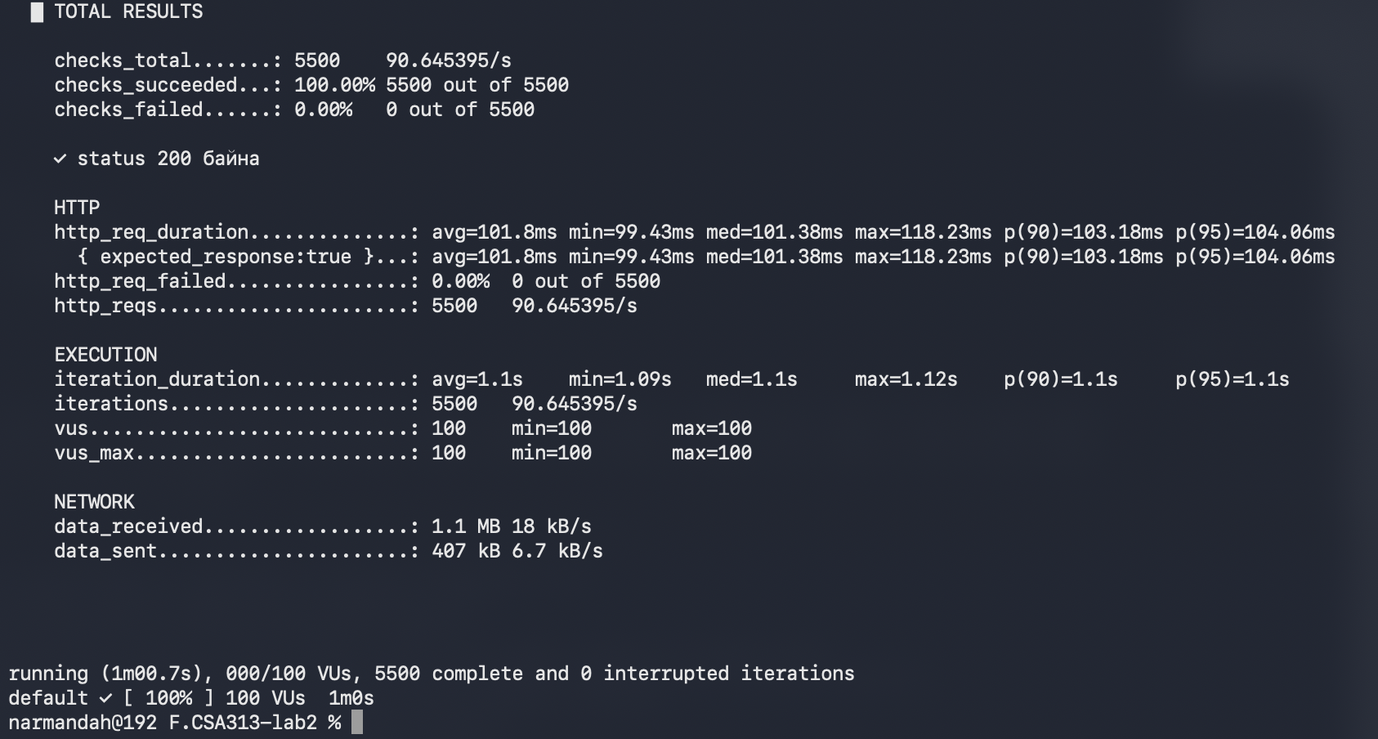
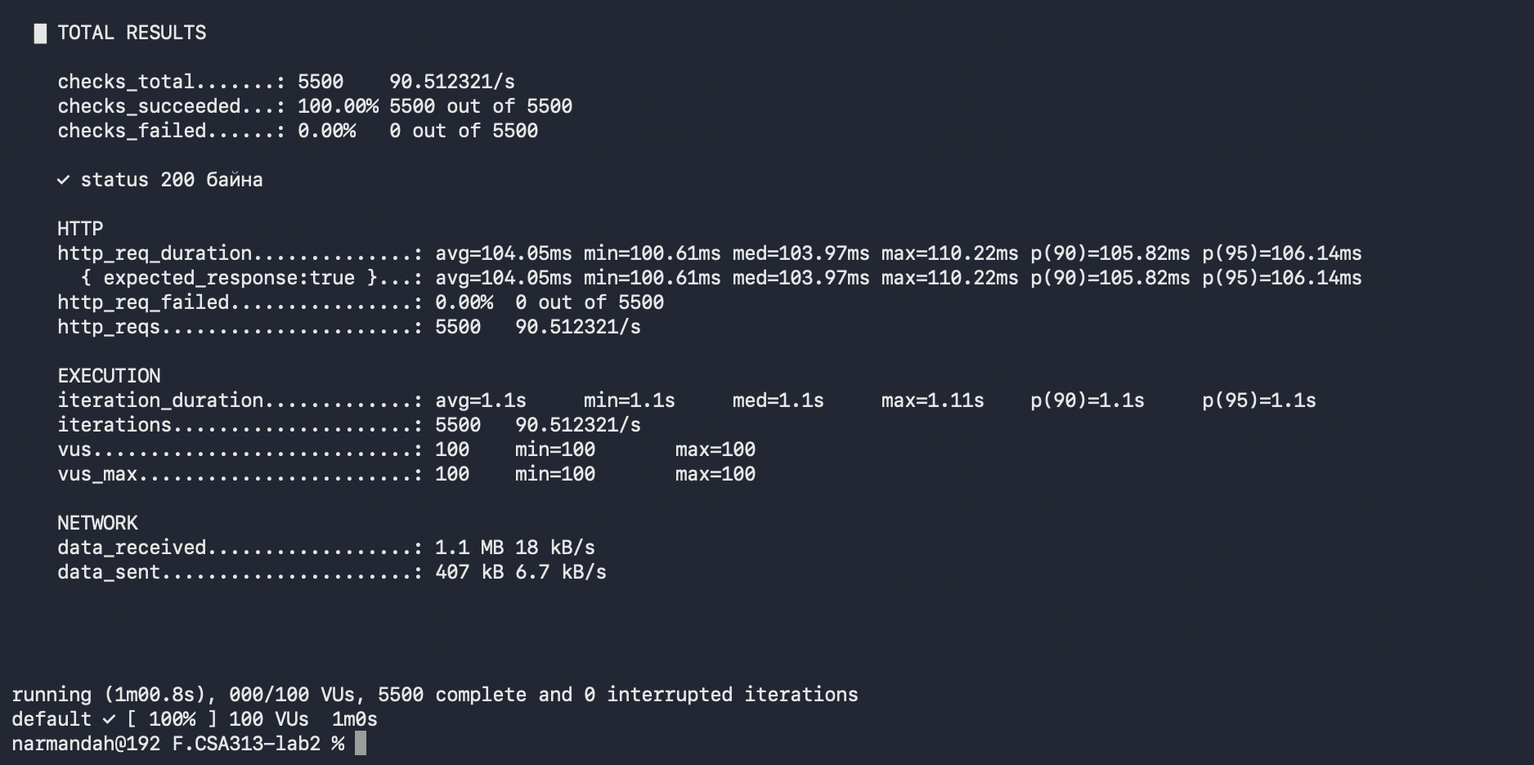
Алхам 4-5: MacBook дээр дахин хэмжсэн, README шинэчилсэн

Changed region(s): [[0.0, 0.0, 0.987, 0.4336], [0.0308, 0.4646, 0.9253, 0.7743], [0.0, 0.8982, 0.6168, 0.9912]]

diff --git a/README.md b/README.md
@@ -7,15 +7,16 @@ F.CSA313 — Программ хангамжийн чанарын баталга
 `k6 version` командын гаралт ([results/k6-version.txt](results/k6-version.txt)):
 
 ```
-k6 v1.2.3 (commit/e4a5a88f7c, go1.24.6, linux/amd64)
+k6 v2.2.0 (commit/devel, go1.26.5, darwin/arm64)
 ```
 
 | Зүйл | Утга |
 |---|---|
-| Үйлдлийн систем | Ubuntu 24.04.4 LTS (x86_64) |
-| CPU / RAM | 2 vCPU / 7 GB |
-| Бай (target) сервер | Өөрийн бичсэн локал Node.js сервер — [`server/server.js`](server/server.js), `http://localhost:3000` (Node v22) |
-| Load тест хэрэгсэл | Grafana k6 v1.2.3 (AGPL v3) |
+| Машин / ҮС | MacBook Air (Apple Silicon, arm64), macOS — `brew install k6` |
+| Бай (target) сервер | Өөрийн бичсэн локал Node.js сервер — [`server/server.js`](server/server.js), `http://localhost:3000` |
+| Load тест хэрэгсэл | Grafana k6 v2.2.0 (AGPL v3) |
+
+k6 болон сервер хоёулаа нэг машин дээр ажилласан.
 
 ### Ёс зүй — тестийн бай
 
@@ -25,7 +26,7 @@ k6 v1.2.3 (commit/e4a5a88f7c, go1.24.6, linux/amd64)
 
 | Endpoint | Тайлбар |
 |---|---|
-| `GET /` | Бүтээгдэхүүний жагсаалт бүхий JSON "хуудас" бэлтгэнэ — хуудас render хийхтэй төстэй **CPU ажил (~12 мс)**. Node.js нэг thread-тэй тул зэрэгцээ хүсэлт олшрох тусам хүсэлтүүд дараалалд зогсоно. |
+| `GET /` | Бүтээгдэхүүний жагсаалт бүхий JSON "хуудас" бэлтгэнэ — хуудас render хийхтэй төстэй CPU ажил (sha256 hash тооцоолол). Node.js нэг thread-тэй тул зэрэгцээ хүсэлт олшрох тусам хүсэлтүүд дараалалд зогсоно. |
 | `GET /slow` | Хариуг `setTimeout`-оор **100 мс удаашруулдаг** endpoint (Алхам 5). CPU ашиглахгүй. |
 | `GET /health` | Хамгийн хөнгөн endpoint |
 
@@ -33,16 +34,17 @@ k6 v1.2.3 (commit/e4a5a88f7c, go1.24.6, linux/amd64)
 
 ```bash
 node server/server.js                  # 1-р терминал: сервер асаах
-mkdir -p results                       # 2-р терминал:
-k6 run script.js 2>&1 | tee results/step2-baseline-05vu-30s.txt          # Алхам 2
-k6 run --vus 5   --duration 1m script.js > results/run-05vu.txt           # Алхам 3
-k6 run --vus 30  --duration 1m script.js > results/run-30vu.txt
-k6 run --vus 100 --duration 1m script.js > results/run-100vu.txt
-k6 run script-stages.js 2>&1 | tee results/run-stages.txt
+                                       # 2-р терминал:
+k6 version | tee results/k6-version.txt
+k6 run script.js | tee results/step2-baseline-05vu-30s.txt                # Алхам 2
+k6 run --vus 5   --duration 1m script.js | tee results/run-05vu.txt        # Алхам 3
+k6 run --vus 30  --duration 1m script.js | tee results/run-30vu.txt
+k6 run --vus 100 --duration 1m script.js | tee results/run-100vu.txt
+k6 run script-stages.js | tee results/run-stages.txt
 k6 run script-thresholds.js      > results/thresholds-pass.txt; echo "exit code: $?" | tee -a results/thresholds-pass.txt   # Алхам 4
 k6 run script-thresholds-fail.js > results/thresholds-fail.txt; echo "exit code: $?" | tee -a results/thresholds-fail.txt
-k6 run --vus 30  --duration 1m script-slow.js > results/slow-30vu.txt     # Алхам 5
-k6 run --vus 100 --duration 1m script-slow.js > results/slow-100vu.txt
+k6 run --vus 30  --duration 1m script-slow.js | tee results/slow-30vu.txt  # Алхам 5
+k6 run --vus 100 --duration 1m script-slow.js | tee results/slow-100vu.txt
 ./extract-table.sh                     # хүснэгтийн тоог гаралтын файлаас шууд задлах
 ```
 
@@ -58,26 +60,26 @@ k6 run --vus 100 --duration 1m script-slow.js > results/slow-100vu.txt
 | [`server/server.js`](server/server.js) | Локал тест сервер |
 | [`extract-table.sh`](extract-table.sh) | `results/run-*vu.txt`-ээс хүснэгтийн тоог задалдаг скрипт |
 | [`results/`](results/) | k6-ийн **бүтэн текст гаралтууд** |
-| [`screenshots/`](screenshots/) | k6 summary гаралтын дэлгэцийн зургууд (xterm терминал дээр `results/` дахь гаралтын файлыг `tail`-аар харуулж авсан) |
+| [`screenshots/`](screenshots/) | k6 summary гаралтын дэлгэцийн зургууд (MacBook-ийн Terminal) |
 
 ## 3. Алхам 2 — Анхны тест ба BASELINE
 
 `script.js` (5 VU, 30s) → [results/step2-baseline-05vu-30s.txt](results/step2-baseline-05vu-30s.txt)
 
 ```
-http_req_duration..............: avg=13.89ms min=8.42ms med=12.46ms max=59.03ms p(90)=18.86ms p(95)=22.92ms
+http_req_duration..............: avg=14.8ms min=4.1ms med=14.48ms max=30.86ms p(90)=16.29ms p(95)=17.11ms
 http_req_failed................: 0.00%  0 out of 150
-http_reqs......................: 150    4.922668/s
+http_reqs......................: 150    4.92108/s
 ```
 
 | Хэмжүүр | Утга | Тайлбар |
 |---|---|---|
-| http_req_duration avg | 13.89 мс | дундаж latency |
-| http_req_duration p90 | 18.86 мс | хүсэлтийн 90% үүнээс хурдан |
-| http_req_duration p95 | **22.92 мс** | **BASELINE** |
+| http_req_duration avg | 14.8 мс | дундаж latency |
+| http_req_duration p90 | 16.29 мс | хүсэлтийн 90% үүнээс хурдан |
+| http_req_duration p95 | **17.11 мс** | **BASELINE** |
 | http_reqs (нийт) | 150 | |
-| http_reqs (секундэд) | 4.92 req/s | throughput |
-| http_req_failed | 0.00% (0 / 150) | error rate — POFOD-ийн аналог |
+| http_reqs (секундэд) | 4.92108/s | throughput |
+| http_req_failed | 0.00% (0 out of 150) | error rate — POFOD-ийн аналог |
 
 ![Алхам 2 baseline](screenshots/01-step2-baseline-05vu.png)
 
@@ -87,17 +89,17 @@ http_reqs......................: 150    4.922668/s
 
 | VU | p90 | p95 | Throughput (http_reqs) | Error rate (http_req_failed) | Гаралтын файл |
 |---|---|---|---|---|---|
-| 5 | 15.61ms | 17.91ms | 300 (4.929018/s) | 0.00% (0 out of 300) | [results/run-05vu.txt](results/run-05vu.txt) |
-| 30 | 22.14ms | 31.63ms | 1773 (29.159929/s) | 0.00% (0 out of 1773) | [results/run-30vu.txt](results/run-30vu.txt) |
-| 100 | 163.74ms | 192.68ms | 5468 (89.421658/s) | 0.00% (0 out of 5468) | [results/run-100vu.txt](results/run-100vu.txt) |
+| 5 | 16.63ms | 17.29ms | 300 (4.921562/s) | 0.00% (0 out of 300) | [results/run-05vu.txt](results/run-05vu.txt) |
+| 30 | 19.21ms | 21.31ms | 1779 (29.158477/s) | 0.00% (0 out of 1779) | [results/run-30vu.txt](results/run-30vu.txt) |
+| 100 | 21.21ms | 25.62ms | 5911 (96.878828/s) | 0.00% (0 out of 5911) | [results/run-100vu.txt](results/run-100vu.txt) |
 
 Нэмэлт тооцоо (дээрх тооноос):
 
 | VU | Нэг VU-д ногдох throughput | p95-ийн өсөлт (5 VU-тэй харьцуулахад) | Хамгийн удаан хүсэлт (max) |
 |---|---|---|---|
-| 5 | 4.929 / 5 = 0.986 req/s | ×1.0 | 76.92ms |
-| 30 | 29.160 / 30 = 0.972 req/s | ×1.8 | 316.88ms |
-| 100 | 89.422 / 100 = 0.894 req/s | ×10.8 | 1.76s |
+| 5 | 4.922 / 5 = 0.984 req/s | ×1.00 | 31.22ms |
+| 30 | 29.158 / 30 = 0.972 req/s | ×1.23 | 123.57ms |
+| 100 | 96.879 / 100 = 0.969 req/s | ×1.48 | 414.03ms |
 
 ![5 VU](screenshots/02-run-05vu.png)
 ![30 VU](screenshots/03-run-30vu.png)
@@ -105,21 +107,21 @@ http_reqs......................: 150    4.922668/s
 
 ### 4.2 "Нэгж хэрэглэгчийн туршлага" хаанаас муудсан бэ?
 
-* **5 → 30 VU:** ачаалал 6 дахин өсөхөд throughput бараг шугаман өссөн (4.93 → 29.16 req/s), p95 17.91 → 31.63 мс болж ердөө ~14 мс нэмэгдсэн. Хэрэглэгч ялгааг бараг мэдрэхгүй.
-* **30 → 100 VU:** ачаалал 3.3 дахин өсөхөд throughput зөвхөн 3.07 дахин өссөн (29.16 → 89.42 req/s, хүлээгдэж буй ~98 req/s-д хүрээгүй), харин p95 **6 дахин** (31.63 → 192.68 мс), max latency 1.76 с болсон.
-* **Муудах цэг — 30-аас 100 VU-ийн хооронд.** `/` хүсэлт бүр ~12 мс CPU ашигладаг тул нэг thread-тэй Node сервер онолын хувьд секундэд ойролцоогоор 80–90 хүсэлт л боловсруулна. 100 VU нь секундэд ~100 хүсэлт илгээх гэж оролдсон тул сервер **ханасан (saturation)**, хүсэлтүүд дараалалд хүлээж эхэлсэн — throughput нэмэгдсээр байхад нэг хэрэглэгчийн хүлээх хугацаа огцом өссөн. Энэ бол лекцийн "10 хэрэглэгчтэй үед 2 с, 100 хэрэглэгчтэй үед 4 с" гэсэн **throughput ба latency-ийн зөрчил**.
+* **5 → 30 VU:** ачаалал 6 дахин өсөхөд throughput бараг шугаман өссөн (4.92 → 29.16 req/s), p95 17.29 → 21.31 мс болж ердөө ~4 мс нэмэгдсэн. Харин хамгийн удаан хүсэлт (max) 31.22 → 123.57 мс болж 4 дахин өссөн.
+* **30 → 100 VU:** ачаалал 3.3 дахин өсөхөд throughput 3.32 дахин өссөн (29.16 → 96.88 req/s) — MacBook-ийн хурдан CPU-гийн ачаар сервер хараахан ханаагүй. Гэвч p95 21.31 → 25.62 мс, max 123.57 → **414.03 мс** болж, 5 VU-тэй харьцуулахад max latency **13 дахин** өссөн.
+* **Муудах цэг — 100 VU орчим.** Дундаж болон median хэрэглэгч ялгааг бараг мэдрэхгүй (med 14.82 → 15.45 мс) ч "сүүл" (tail latency) хэсэгт буюу хамгийн азгүй хэрэглэгчдийн хүлээлт огцом өссөн: 100 VU-д p95 (25.62 мс) нь SLO хязгаар (26 мс)-т бараг тулсан. Node.js нэг thread-тэй тул олон хүсэлт зэрэг ирэхэд зарим нь дараалалд зогсож, энэ нь эхлээд p95/max-д илэрдэг. Ачааллыг цааш нэмбэл throughput өсөхөө болиод latency огцом өсөх (saturation) нь лекцийн **throughput ба latency-ийн зөрчил**-ийн эхлэл юм.
 
 ### 4.3 Stages хувилбар
 
 `script-stages.js` (30s → 5, 1m → 30, 30s → 100, 30s → 0) → [results/run-stages.txt](results/run-stages.txt)
 
 ```
-http_req_duration..............: avg=19.25ms min=5.95ms med=12.79ms max=291.35ms p(90)=38.86ms p(95)=64.78ms
-http_req_failed................: 0.00%  0 out of 4503
-http_reqs......................: 4503   29.900891/s
+http_req_duration..............: avg=8.55ms min=3.21ms med=6.66ms max=32.4ms p(90)=15.38ms p(95)=16.31ms
+http_req_failed................: 0.00%  0 out of 4553
+http_reqs......................: 4553   30.185239/s
 ```
 
-Ажиглалт: ачаалал нэмэгдэж оргил (100 VU) руу ойртох үед latency өсөж, буултын үед хэвийн болсон. Гэхдээ нэгтгэсэн ганц summary нь бүх үеийг хольж өгдөг тул p95 = 64.78 мс гэж "дундажласан" дүр зураг харуулсан — оргил үеийн жинхэнэ p95 (100 VU-д 192.68 мс) нуугдсан. Иймээс хүснэгтийн тоог тусдаа ажиллуулалтаас авсан.
+Ажиглалт: ачаалал 5 → 30 → 100 VU хүртэл өсөж, дараа нь 0 хүртэл буусан. Нэгтгэсэн ганц summary нь халаалт, өсгөлт, оргил, буултын бүх үеийн хүсэлтийг хольж өгдөг тул p95 = 16.31 мс гэж харуулсан — энэ нь 100 VU-ийн тусдаа ажиллуулалтын p95 (25.62 мс)-аас бага. Өөрөөр хэлбэл оргил үеийн жинхэнэ дүр зураг нуугддаг тул хүснэгтийн тоог тусдаа ажиллуулалтаас авсан.
 
 ![Stages](screenshots/05-run-stages.png)
 
@@ -129,7 +131,7 @@ http_reqs......................: 4503   29.900891/s
 
 | SLO | Threshold | Үндэслэл |
 |---|---|---|
-| Latency | `http_req_duration: ['p(95)<45']` | Алхам 2-ын baseline p95 = **22.92 мс**. Тест 30 VU буюу baseline-аас 6 дахин их ачаалалтай тул latency baseline-ийн **2 дахин** (22.92 × 2 ≈ 45 мс) хүртэл өсөхийг зөвшөөрсөн; ×1.5 (≈34 мс) нь 30 VU-ийн хэмжилт (31.63 мс)-д хэт ойр байсан тул хэвийн хэлбэлзлээс болж худал FAIL гарах эрсдэлтэй. |
+| Latency | `http_req_duration: ['p(95)<26']` | Алхам 2-ын baseline p95 = **17.11 мс**. SLO-г **baseline × 1.5** (17.11 × 1.5 = 25.67 ≈ 26 мс) гэж тогтоосон: 30 VU-ийн ачаалалд latency baseline-аас 50% хүртэл өсөхийг зөвшөөрнө, түүнээс илүү удаашрал хэрэглэгчид мэдрэгдэж эхэлнэ гэж үзсэн. |
 | Error rate | `http_req_failed: ['rate<0.01']` | Baseline-д алдаа 0% байсан; 1%-иас бага алдааг хүлээн зөвшөөрөх түвшин гэж тогтоосон. |
 
 Скрипт: [`script-thresholds.js`](script-thresholds.js) (`vus: 30, duration: "1m"`, stages-ийг устгасан).
@@ -139,7 +141,7 @@ http_reqs......................: 4503   29.900891/s
 ```
 █ THRESHOLDS
   http_req_duration
-  ✓ 'p(95)<45' p(95)=29.59ms
+  ✓ 'p(95)<26' p(95)=19.87ms
   http_req_failed
   ✓ 'rate<0.01' rate=0.00%
 exit code: 0
@@ -152,13 +154,13 @@ exit code: 0
 ```
 █ THRESHOLDS
   http_req_duration
-  ✗ 'p(95)<10' p(95)=29.77ms
+  ✗ 'p(95)<10' p(95)=20.43ms
   http_req_failed
   ✓ 'rate<0.01' rate=0.00%
 exit code: 99
 ```
 
-Terminal дээр мөн `level=error msg="thresholds on metrics 'http_req_duration' have been crossed"` гарсан. k6 threshold зөрчигдвөл **exit code 99** буцаадаг тул CI pipeline (GitHub Actions г.м.) энэ алхмыг автоматаар FAIL болгож, build-ийг зогсооно — quality gate яг ийм зарчмаар ажилладаг.
+Terminal дээр мөн `ERRO[0061] thresholds on metrics 'http_req_duration' have been crossed` гарсан. k6 threshold зөрчигдвөл **exit code 99** буцаадаг тул CI pipeline (GitHub Actions г.м.) энэ алхмыг автоматаар FAIL болгож, build-ийг зогсооно — quality gate яг ийм зарчмаар ажилладаг.
 
 ![Thresholds FAIL](screenshots/07-thresholds-FAIL.png)
 
@@ -166,29 +168,29 @@ Terminal дээр мөн `level=error msg="thresholds on metrics 'http_req_durat
 
 | Endpoint | VU | p90 | p95 | Throughput | Error rate | Файл |
 |---|---|---|---|---|---|---|
-| `/` (CPU ~12 мс) | 30 | 22.14ms | 31.63ms | 29.159929/s | 0.00% | [run-30vu.txt](results/run-30vu.txt) |
-| `/slow` (100 мс хүлээлт) | 30 | 102.4ms | 102.85ms | 27.212976/s | 0.00% | [slow-30vu.txt](results/slow-30vu.txt) |
-| `/` (CPU ~12 мс) | 100 | 163.74ms | 192.68ms | 89.421658/s | 0.00% | [run-100vu.txt](results/run-100vu.txt) |
-| `/slow` (100 мс хүлээлт) | 100 | 103.18ms | 104.06ms | 90.645395/s | 0.00% | [slow-100vu.txt](results/slow-100vu.txt) |
+| `/` (CPU ажил) | 30 | 19.21ms | 21.31ms | 29.158477/s | 0.00% | [run-30vu.txt](results/run-30vu.txt) |
+| `/slow` (100 мс хүлээлт) | 30 | 104.18ms | 104.35ms | 27.16162/s | 0.00% | [slow-30vu.txt](results/slow-30vu.txt) |
+| `/` (CPU ажил) | 100 | 21.21ms | 25.62ms | 96.878828/s | 0.00% | [run-100vu.txt](results/run-100vu.txt) |
+| `/slow` (100 мс хүлээлт) | 100 | 105.82ms | 106.14ms | 90.512321/s | 0.00% | [slow-100vu.txt](results/slow-100vu.txt) |
 
-Ажиглалт: `/slow` endpoint 100 мс-ээр удаан ч latency нь ачааллаас бараг хамаарахгүй (30 VU-д p95 102.85 мс, 100 VU-д 104.06 мс), учир нь `setTimeout` нь CPU-г блоклохгүй, Node-ийн event loop хүлээж буй олон хүсэлтийг зэрэг барьж чадна. Харин `/` endpoint 30 VU-д `/slow`-оос 3 дахин хурдан байсан ч 100 VU-д CPU ханаж, p95 нь `/slow`-оос ч удаан (192.68 мс) болсон. Эндээс харахад гүйцэтгэлийг зөвхөн нэг хүсэлтийн хурдаар биш, **ачаалал дор** хэмжих ёстой.
+Ажиглалт: `/slow` endpoint нь 100 мс удаашралаас болж `/`-оос ~5 дахин удаан ч latency нь ачааллаас бараг хамаарахгүй (30 VU-д p95 104.35 мс, 100 VU-д 106.14 мс, max 110.22 мс). Учир нь `setTimeout` CPU-г блоклохгүй, Node-ийн event loop хүлээж буй олон хүсэлтийг зэрэг барьж чадна. Харин CPU ашигладаг `/` endpoint-д max latency 123.57 → 414.03 мс болж өссөн. Удаашралын шалтгаан (I/O хүлээлт эсвэл CPU ажил) нь ачаалал дор систем хэрхэн зан төлөвлөхийг тодорхойлдог. Мөн `/slow`-ийн throughput (90.51 req/s) нь `/` (96.88 req/s)-оос бага, учир нь VU бүрийн нэг давталт илүү удаан (1.1 с) үргэлжилсэн.
 
 ![slow 30 VU](screenshots/08-slow-30vu.png)
 ![slow 100 VU](screenshots/09-slow-100vu.png)
 
 ## 7. Дүгнэлт
 
-1. Ачааллыг 5 → 30 → 100 VU болгон өсгөхөд throughput 4.93 → 29.16 → 89.42 req/s болж өссөн боловч 100 VU-д шугаман өсөлт зогсож, нэг VU-д ногдох throughput 0.986-аас 0.894 req/s болж буурсан.
-2. Үүний зэрэгцээ p95 latency 17.91 → 31.63 → 192.68 мс болж, 30-аас 100 VU руу шилжихэд 6 дахин огцом өссөн тул "нэгж хэрэглэгчийн туршлага" 30–100 VU-ийн хооронд муудаж эхэлсэн.
-3. Энэ нь лекцийн **throughput ба latency-ийн зөрчил**-ийг баталсан: систем нийтдээ илүү олон хүсэлт боловсруулж байхад хэрэглэгч бүр илүү удаан хүлээсэн.
-4. Шалтгаан нь нэг thread-тэй серверийн CPU ханасан (saturation) явдал бөгөөд ханалтын цэгт хүрмэгц хүсэлтүүд дараалалд зогсож latency шугаман бусаар өсдөг болохыг харлаа.
-5. 100 VU-д дундаж latency 106.11 мс байхад max нь 1.76 с байсан нь зөвхөн дунджийг харах нь хангалтгүй, **p95/p99 зэрэг percentile** хэмжүүр чухал гэсэн лекцийн ойлголтыг баталсан.
-6. Бүх түвшинд http_req_failed 0.00% байсан тул error rate (POFOD-ийн аналог) болон availability хангагдсан ч гүйцэтгэл муудсан — "алдаагүй" гэдэг нь "хангалттай хурдан" гэсэн үг биш юм.
-7. Stages-тэй нэг ажиллуулалт нэгтгэсэн summary-д p95-ийг 64.78 мс гэж харуулж оргил үеийн жинхэнэ утгыг нуусан тул түвшин бүрийг тусад нь хэмжих шаардлагатай болохыг ойлгосон.
-8. Миний SLO нь baseline p95 (22.92 мс)-ийн 2 дахин буюу 30 VU-д **p95 < 45 мс** ба **error rate < 1%** байсан бөгөөд хэмжилтээр p95 = 29.59 мс, алдаа 0.00% гарч **SLO хангагдсан (PASS, exit code 0)**.
-9. Харин threshold-ыг санаатай `p(95)<10` болгоход k6 FAIL болж exit code 99 буцаасан нь SLO-г кодоор тодорхойлж CI дээр quality gate болгож болдгийг харуулсан.
-10. Хэрэв ижил SLO-г 100 VU-д хэрэглэвэл p95 = 192.68 мс тул зөрчигдөх байсан — өөрөөр хэлбэл энэ сервер одоогийн байдлаар ~30 зэрэгцээ хэрэглэгчийн SLO-г л баталгаатай хангана.
+1. Ачааллыг 5 → 30 → 100 VU болгон өсгөхөд throughput 4.92 → 29.16 → 96.88 req/s болж бараг шугаман өссөн бөгөөд нэг VU-д ногдох throughput 0.984-өөс 0.969 req/s болж бага зэрэг буурсан.
+2. Үүний зэрэгцээ p95 latency 17.29 → 21.31 → 25.62 мс болж 5 VU-тэй харьцуулахад 48%-иар өссөн, харин хамгийн удаан хүсэлт (max) 31.22 мс-ээс 414.03 мс болж 13 дахин өссөн.
+3. Эндээс лекцийн **percentile (p95/p99) хэмжүүрийн ач холбогдол** батлагдсан: median (14.82 → 15.45 мс) бараг өөрчлөгдөөгүй ч "сүүл" хэсгийн хэрэглэгчдийн туршлага мэдэгдэхүйц муудсан.
+4. Нэгж хэрэглэгчийн туршлага 100 VU орчимд муудаж эхэлсэн — p95 (25.62 мс) нь миний SLO хязгаар (26 мс)-т бараг тулсан.
+5. Систем нийтдээ илүү олон хүсэлт боловсруулж байхад хэрэглэгч бүрийн хүлээх хугацаа нэмэгдсэн нь лекцийн **throughput ба latency-ийн зөрчил**-ийг харуулсан; MacBook-ийн CPU хурдан тул 100 VU-д бүрэн ханалтад (saturation) хүрээгүй.
+6. Бүх түвшинд http_req_failed 0.00% байсан тул error rate (POFOD-ийн аналог) болон availability хангагдсан ч latency-ийн сүүл хэсэг өссөн — "алдаагүй" гэдэг нь "хангалттай хурдан" гэсэн үг биш юм.
+7. Stages-тэй нэг ажиллуулалт нэгтгэсэн summary-д p95-ийг 16.31 мс гэж харуулж, 100 VU-ийн оргил үеийн утга (25.62 мс)-ыг нуусан тул түвшин бүрийг тусад нь хэмжих шаардлагатай болохыг ойлгосон.
+8. Миний SLO нь baseline p95 (17.11 мс) × 1.5 буюу 30 VU-д **p95 < 26 мс** ба **error rate < 1%** байсан бөгөөд хэмжилтээр p95 = 19.87 мс, алдаа 0.00% гарч **SLO хангагдсан (PASS, exit code 0)**.
+9. Threshold-ыг санаатай `p(95)<10` болгоход k6 FAIL болж exit code 99 буцаасан нь SLO-г кодоор тодорхойлж CI дээр quality gate болгож болдгийг харуулсан.
+10. Алхам 5-д I/O хүлээлттэй `/slow` endpoint ачааллаас үл хамааран тогтвортой (~104–106 мс) байсан бол CPU ашигладаг `/` endpoint-ийн tail latency өссөн нь удаашралын шалтгаанаас гүйцэтгэл хамаардгийг харуулсан.
 
 ## 8. Commit түүх
 
-Ажлын явцад алхам бүрийг дуусгах бүрт commit хийсэн (`git log --oneline`-оор харна).
+Ажлын явцад алхам бүрийг дуусгах бүрт commit хийсэн (`git log --oneline`-оор харна). Эхний хэмжилтүүдийг өөр Linux орчинд хийсэн бөгөөд дараа нь бүх хэмжилтийг өөрийн MacBook дээр дахин хийж, тоо баримт болон дэлгэцийн зургуудыг шинэчилсэн.
